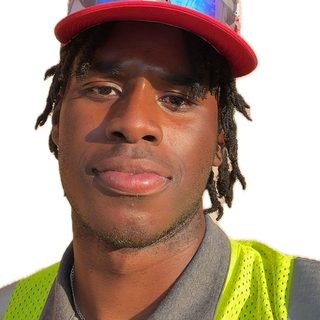
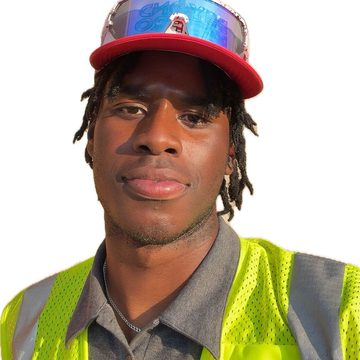
Wider team photo showing the vest
Claude-Session: https://claude.ai/code/session_016y5dGfSVcjcy2YftboNkaM

diff --git a/views/page.html b/views/page.html
@@ -182,7 +182,7 @@ footer p{margin:0 0 8px}
 <p class="body">We work with Kinetic, Brightspeed, Verizon Fios, AT&amp;T Fiber, Frontier, Quantum Fiber, Fidium, Bluepeak, Ting, Ripple, Wire3, Point Broadband and Clearwave, so you get the options that actually reach your home.</p>
 </div>
 <div class="rep">
-<div style="display:flex;gap:14px;align-items:center"><img src="/rep.jpg" alt="A member of our fiber sales team" width="64" height="64" loading="lazy" style="width:64px;height:64px;border-radius:50%;object-fit:cover;flex:none"><div><p style="margin:0;font-size:18px;font-weight:700">A real team, not a call center</p>
+<div style="display:flex;gap:14px;align-items:center"><img src="/rep.jpg" alt="A member of our fiber sales team" width="88" height="88" loading="lazy" style="width:88px;height:88px;border-radius:16px;object-fit:cover;flex:none;background:#fff"><div><p style="margin:0;font-size:18px;font-weight:700">A real team, not a call center</p>
 <p style="margin:2px 0 0;font-size:15px;color:#4A5D70">Quota · fiber sales</p></div></div>
 <q>My team sells fiber door to door. We built this so you can find out what's available without waiting for someone to knock. When you check your address, the text you get back comes from one of us.</q>
 </div>
